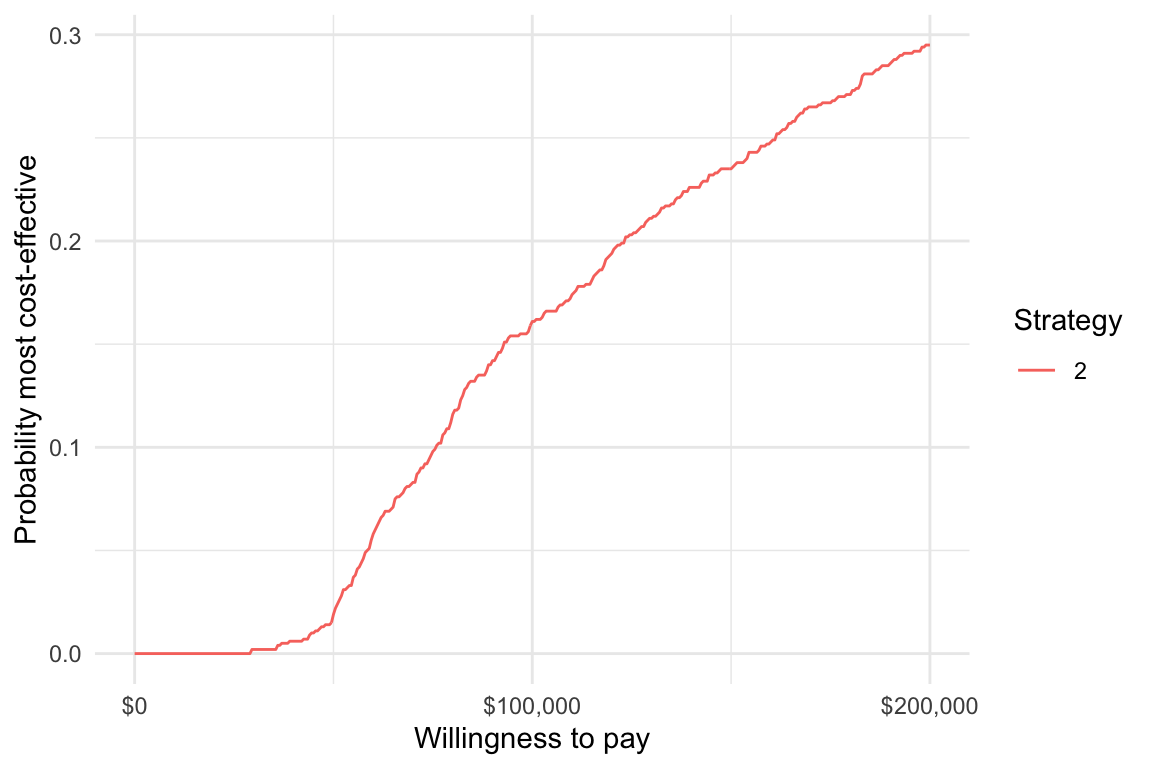
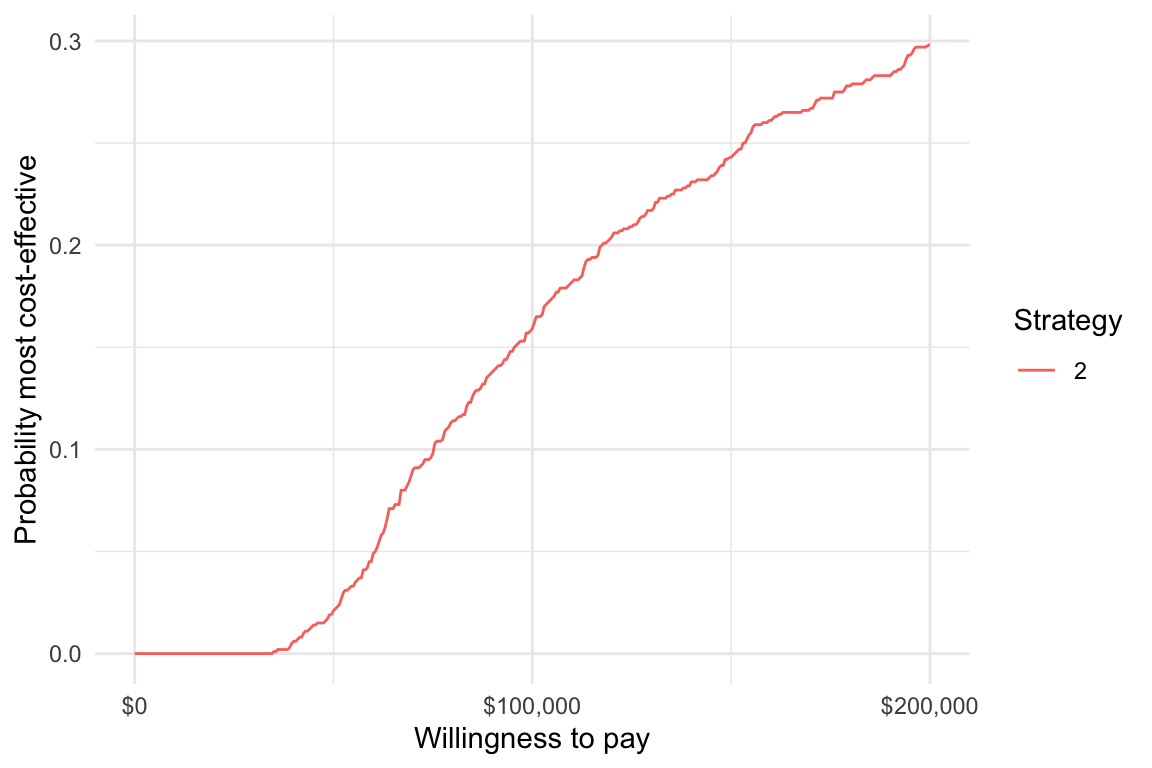
Replace icea() and icea_pw() with cea() and cea_pw() in intro vignette

diff --git a/docs/dev/articles/intro.html b/docs/dev/articles/intro.html
@@ -112,7 +112,7 @@
       <h1 data-toc-skip>Introduction to <code>hesim</code>
 </h1>
             
-            <h4 class="date">2020-09-16</h4>
+            <h4 class="date">2020-09-18</h4>
       
       <small class="dont-index">Source: <a href="https://github.com/hesim-dev/hesim/blob/master/vignettes/intro.Rmd"><code>vignettes/intro.Rmd</code></a></small>
       <div class="hidden name"><code>intro.Rmd</code></div>
@@ -204,17 +204,17 @@ Individual-level continuous time state transition model (iCTSTM)
 ## 
 ## $patients
 ##       patient_id      age female
-##    1:          1 35.89558      0
-##    2:          2 48.28975      1
-##    3:          3 53.94118      1
-##    4:          4 46.72075      1
-##    5:          5 41.43244      1
+##    1:          1 44.26849      0
+##    2:          2 50.36781      1
+##    3:          3 49.83139      1
+##    4:          4 48.30783      1
+##    5:          5 41.94228      0
 ##   ---                           
-##  996:        996 47.53105      1
-##  997:        997 50.77584      0
-##  998:        998 40.46753      1
-##  999:        999 42.26013      1
-## 1000:       1000 39.09294      1
+##  996:        996 50.03492      0
+##  997:        997 52.65689      1
+##  998:        998 42.22996      0
+##  999:        999 40.15365      1
+## 1000:       1000 38.87612      0
 ## 
 ## $states
 ##    state_id state_name
@@ -480,12 +480,12 @@ Cost model(s)
                         <span class="kw">by</span> <span class="kw">=</span> <span class="fu"><a href="https://rdrr.io/r/base/c.html">c</a></span>(<span class="st">"strategies"</span>, <span class="st">"patients"</span>, <span class="st">"transitions"</span>))
 <span class="fu"><a href="https://rdrr.io/r/utils/head.html">head</a></span>(<span class="no">transmod_data</span>)</pre></body></html></div>
 <pre><code>##    strategy_id patient_id transition_id      age female from to from_name
-## 1:           1          1             1 35.89558      0    1  2   Healthy
-## 2:           1          1             2 35.89558      0    1  3   Healthy
-## 3:           1          1             3 35.89558      0    2  1      Sick
-## 4:           1          1             4 35.89558      0    2  3      Sick
-## 5:           1          2             1 48.28975      1    1  2   Healthy
-## 6:           1          2             2 48.28975      1    1  3   Healthy
+## 1:           1          1             1 44.26849      0    1  2   Healthy
+## 2:           1          1             2 44.26849      0    1  3   Healthy
+## 3:           1          1             3 44.26849      0    2  1      Sick
+## 4:           1          1             4 44.26849      0    2  3      Sick
+## 5:           1          2             1 50.36781      1    1  2   Healthy
+## 6:           1          2             2 50.36781      1    1  3   Healthy
 ##    to_name trans
 ## 1:    Sick     1
 ## 2:    Dead     2
@@ -592,89 +592,89 @@ $sim_costs()
 <p>We illustrate with the iCTSTM. First we simulate disease progression for each patient.</p>
 <div class="sourceCode" id="cb14"><html><body><pre class="r"><span class="no">ictstm</span>$<span class="fu">sim_disease</span>()
 <span class="fu"><a href="https://rdrr.io/r/utils/head.html">head</a></span>(<span class="no">ictstm</span>$<span class="no">disprog_</span>)</pre></body></html></div>
-<pre><code>##    sample strategy_id patient_id grp_id from to final time_start time_stop
-## 1:      1           1          1      1    1  2     0   0.000000  8.301372
-## 2:      1           1          1      1    2  1     0   8.301372  8.631691
-## 3:      1           1          1      1    1  3     1   8.631691 20.233681
-## 4:      1           1          2      1    1  2     0   0.000000  3.609151
-## 5:      1           1          2      1    2  1     0   3.609151 12.894752
-## 6:      1           1          2      1    1  3     1  12.894752 16.308082</code></pre>
+<pre><code>##    sample strategy_id patient_id grp_id from to final time_start  time_stop
+## 1:      1           1          1      1    1  2     0  0.0000000  6.2243742
+## 2:      1           1          1      1    2  3     1  6.2243742 10.1577200
+## 3:      1           1          2      1    1  2     0  0.0000000  0.3749086
+## 4:      1           1          2      1    2  1     0  0.3749086  3.5313569
+## 5:      1           1          2      1    1  2     0  3.5313569  3.6525107
+## 6:      1           1          2      1    2  1     0  3.6525107  4.1585122</code></pre>
 <p>The disease trajectory can be summarized with <code>$sim_stateprobs()</code>.</p>
 <div class="sourceCode" id="cb16"><html><body><pre class="r"><span class="no">ictstm</span>$<span class="fu">sim_stateprobs</span>(<span class="kw">t</span> <span class="kw">=</span> <span class="fu"><a href="https://rdrr.io/r/base/c.html">c</a></span>(<span class="fl">0</span>:<span class="fl">10</span>))
 <span class="fu"><a href="https://rdrr.io/r/utils/head.html">head</a></span>(<span class="no">ictstm</span>$<span class="no">stateprobs_</span>)</pre></body></html></div>
 <pre><code>##    sample strategy_id grp_id state_id t  prob
 ## 1:      1           1      1        1 0 1.000
-## 2:      1           1      1        1 1 0.837
-## 3:      1           1      1        1 2 0.734
-## 4:      1           1      1        1 3 0.658
-## 5:      1           1      1        1 4 0.596
-## 6:      1           1      1        1 5 0.553</code></pre>
+## 2:      1           1      1        1 1 0.864
+## 3:      1           1      1        1 2 0.741
+## 4:      1           1      1        1 3 0.661
+## 5:      1           1      1        1 4 0.587
+## 6:      1           1      1        1 5 0.529</code></pre>
 <p>We can then compute costs and QALYs (using a discount rate of 3 percent).</p>
 <div class="sourceCode" id="cb18"><html><body><pre class="r"><span class="co"># QALYs</span>
 <span class="no">ictstm</span>$<span class="fu"><a href="../reference/sim_ev.html">sim_qalys</a></span>(<span class="kw">dr</span> <span class="kw">=</span> <span class="fl">.03</span>)
 <span class="fu"><a href="https://rdrr.io/r/utils/head.html">head</a></span>(<span class="no">ictstm</span>$<span class="no">qalys_</span>)</pre></body></html></div>
-<pre><code>##    sample strategy_id grp_id state_id   dr     qalys       lys
-## 1:      1           1      1        1 0.03 7.0336498 8.2286792
-## 2:      1           1      1        2 0.03 1.7161797 1.8123387
-## 3:      1           2      1        1 0.03 6.9692623 8.1533522
-## 4:      1           2      1        2 0.03 0.9005584 0.9510174
-## 5:      2           1      1        1 0.03 6.1601748 9.1825338
-## 6:      2           1      1        2 0.03 1.8448341 2.0326476</code></pre>
+<pre><code>##    sample strategy_id grp_id state_id   dr    qalys      lys
+## 1:      1           1      1        1 0.03 4.511986 7.654131
+## 2:      1           1      1        2 0.03 1.327581 1.557094
+## 3:      1           2      1        1 0.03 5.033307 8.538500
+## 4:      1           2      1        2 0.03 1.000137 1.173041
+## 5:      2           1      1        1 0.03 5.392822 8.198494
+## 6:      2           1      1        2 0.03 1.872053 1.929139</code></pre>
 <div class="sourceCode" id="cb20"><html><body><pre class="r"><span class="co"># Costs</span>
 <span class="no">ictstm</span>$<span class="fu"><a href="../reference/sim_ev.html">sim_costs</a></span>(<span class="kw">dr</span> <span class="kw">=</span> <span class="fl">.03</span>)
 <span class="fu"><a href="https://rdrr.io/r/utils/head.html">head</a></span>(<span class="no">ictstm</span>$<span class="no">costs_</span>)</pre></body></html></div>
 <pre><code>##    sample strategy_id grp_id state_id   dr category     costs
-## 1:      1           1      1        1 0.03    drugs 41143.396
-## 2:      1           1      1        2 0.03    drugs  9061.693
-## 3:      1           2      1        1 0.03    drugs 81533.522
-## 4:      1           2      1        2 0.03    drugs  9510.174
-## 5:      2           1      1        1 0.03    drugs 45912.669
-## 6:      2           1      1        2 0.03    drugs 10163.238</code></pre>
+## 1:      1           1      1        1 0.03    drugs 38270.655
+## 2:      1           1      1        2 0.03    drugs  7785.468
+## 3:      1           2      1        1 0.03    drugs 85385.000
+## 4:      1           2      1        2 0.03    drugs 11730.405
+## 5:      2           1      1        1 0.03    drugs 40992.471
+## 6:      2           1      1        2 0.03    drugs  9645.695</code></pre>
 </div>
 </div>
 <div id="decision-analysis" class="section level1">
 <h1 class="hasAnchor">
 <a href="#decision-analysis" class="anchor"></a>Decision analysis</h1>
-<p>Once output has been simulated with an economic model, a decision analysis can be performed. Cost-effectiveness analyses can be performed using other R packages such as <a href="https://sites.google.com/a/statistica.it/gianluca/bcea">BCEA</a> or directly with <code>hesim</code> as described in more detail <a href="icea.html">here</a>. <code>hesim</code> does not currently provide support for MCDA.</p>
+<p>Once output has been simulated with an economic model, a decision analysis can be performed. Cost-effectiveness analyses can be performed using other R packages such as <a href="https://sites.google.com/a/statistica.it/gianluca/bcea">BCEA</a> or directly with <code>hesim</code> as described in more detail <a href="cea.html">here</a>. <code>hesim</code> does not currently provide support for MCDA.</p>
 <p>To perform a CEA, simulated costs and QALYs can be summarized to create a <code>ce</code> object, which contains mean costs and QALYs for each sample from the PSA by treatment strategy.</p>
 <div class="sourceCode" id="cb22"><html><body><pre class="r"><span class="no">ce</span> <span class="kw">&lt;-</span> <span class="no">ictstm</span>$<span class="fu">summarize</span>()
 <span class="fu"><a href="https://rdrr.io/r/base/print.html">print</a></span>(<span class="no">ce</span>)</pre></body></html></div>
 <pre><code>## $costs
 ##       category   dr sample strategy_id     costs grp_id
-##    1:    drugs 0.03      1           1  50205.09      1
-##    2:    drugs 0.03      1           2  91043.70      1
-##    3:    drugs 0.03      2           1  56075.91      1
-##    4:    drugs 0.03      2           2 112456.02      1
-##    5:    drugs 0.03      3           1  48235.53      1
+##    1:    drugs 0.03      1           1  46056.12      1
+##    2:    drugs 0.03      1           2  97115.40      1
+##    3:    drugs 0.03      2           1  50638.17      1
+##    4:    drugs 0.03      2           2 106840.68      1
+##    5:    drugs 0.03      3           1  47994.89      1
 ##   ---                                                  
-## 5996:    total 0.03    998           2 118324.67      1
-## 5997:    total 0.03    999           1  61466.24      1
-## 5998:    total 0.03    999           2 117241.29      1
-## 5999:    total 0.03   1000           1  63010.07      1
-## 6000:    total 0.03   1000           2 112578.45      1
+## 5996:    total 0.03    998           2 115225.59      1
+## 5997:    total 0.03    999           1  64406.42      1
+## 5998:    total 0.03    999           2 120432.61      1
+## 5999:    total 0.03   1000           1  61070.81      1
+## 6000:    total 0.03   1000           2 100169.28      1
 ## 
 ## $qalys
 ##         dr sample strategy_id    qalys grp_id
-##    1: 0.03      1           1 8.749829      1
-##    2: 0.03      1           2 7.869821      1
-##    3: 0.03      2           1 8.005009      1
-##    4: 0.03      2           2 7.816588      1
-##    5: 0.03      3           1 4.688784      1
+##    1: 0.03      1           1 5.839567      1
+##    2: 0.03      1           2 6.033443      1
+##    3: 0.03      2           1 7.264875      1
+##    4: 0.03      2           2 7.379253      1
+##    5: 0.03      3           1 6.360733      1
 ##   ---                                        
-## 1996: 0.03    998           2 6.809477      1
-## 1997: 0.03    999           1 8.488227      1
-## 1998: 0.03    999           2 8.819337      1
-## 1999: 0.03   1000           1 9.402315      1
-## 2000: 0.03   1000           2 9.232314      1
+## 1996: 0.03    998           2 7.654312      1
+## 1997: 0.03    999           1 3.443313      1
+## 1998: 0.03    999           2 3.353327      1
+## 1999: 0.03   1000           1 8.216184      1
+## 2000: 0.03   1000           2 7.372686      1
 ## 
 ## attr(,"class")
 ## [1] "ce"</code></pre>
-<p>The functions <code><a href="../reference/icea.html">icea()</a></code> and <code>icea_pw</code>, which perform individualized cost-effectiveness analysis and incremental individualized cost-effectiveness analysis, respectively, can be used.</p>
-<div class="sourceCode" id="cb24"><html><body><pre class="r"><span class="no">icea</span> <span class="kw">&lt;-</span> <span class="fu"><a href="../reference/icea.html">icea</a></span>(<span class="no">ce</span>, <span class="kw">dr_qalys</span> <span class="kw">=</span> <span class="fl">.03</span>, <span class="kw">dr_costs</span> <span class="kw">=</span> <span class="fl">.03</span>)
-<span class="no">icea_pw</span> <span class="kw">&lt;-</span> <span class="fu"><a href="../reference/icea.html">icea_pw</a></span>(<span class="no">ce</span>, <span class="kw">dr_qalys</span> <span class="kw">=</span> <span class="fl">.03</span>, <span class="kw">dr_costs</span> <span class="kw">=</span> <span class="fl">.03</span>, <span class="kw">comparator</span> <span class="kw">=</span> <span class="fl">1</span>)</pre></body></html></div>
+<p>The functions <code><a href="../reference/cea.html">cea()</a></code> and <code>cea_pw</code>, which perform individualized cost-effectiveness analysis and incremental individualized cost-effectiveness analysis, respectively, can be used.</p>
+<div class="sourceCode" id="cb24"><html><body><pre class="r"><span class="no">cea</span> <span class="kw">&lt;-</span> <span class="fu"><a href="../reference/cea.html">cea</a></span>(<span class="no">ce</span>, <span class="kw">dr_qalys</span> <span class="kw">=</span> <span class="fl">.03</span>, <span class="kw">dr_costs</span> <span class="kw">=</span> <span class="fl">.03</span>)
+<span class="no">cea_pw</span> <span class="kw">&lt;-</span> <span class="fu"><a href="../reference/cea.html">cea_pw</a></span>(<span class="no">ce</span>, <span class="kw">dr_qalys</span> <span class="kw">=</span> <span class="fl">.03</span>, <span class="kw">dr_costs</span> <span class="kw">=</span> <span class="fl">.03</span>, <span class="kw">comparator</span> <span class="kw">=</span> <span class="fl">1</span>)</pre></body></html></div>
 <p>For instance, we might want to plot a cost-effectiveness acceptability curve (CEAC) displaying the probability that treatment strategy 2 is more cost-effective than treatment strategy 1 at a given willingness to pay for a QALY.</p>
 <div class="sourceCode" id="cb25"><html><body><pre class="r"><span class="fu"><a href="https://rdrr.io/r/base/library.html">library</a></span>(<span class="st">"ggplot2"</span>)
-<span class="kw pkg">ggplot2</span><span class="kw ns">::</span><span class="fu"><a href="https://ggplot2.tidyverse.org/reference/ggplot.html">ggplot</a></span>(<span class="no">icea_pw</span>$<span class="no">ceac</span>, <span class="fu"><a href="https://ggplot2.tidyverse.org/reference/aes.html">aes</a></span>(<span class="kw">x</span> <span class="kw">=</span> <span class="no">k</span>, <span class="kw">y</span> <span class="kw">=</span> <span class="no">prob</span>, <span class="kw">col</span> <span class="kw">=</span> <span class="fu"><a href="https://rdrr.io/r/base/factor.html">factor</a></span>(<span class="no">strategy_id</span>))) +
+<span class="fu"><a href="https://ggplot2.tidyverse.org/reference/ggplot.html">ggplot</a></span>(<span class="no">cea_pw</span>$<span class="no">ceac</span>, <span class="fu"><a href="https://ggplot2.tidyverse.org/reference/aes.html">aes</a></span>(<span class="kw">x</span> <span class="kw">=</span> <span class="no">k</span>, <span class="kw">y</span> <span class="kw">=</span> <span class="no">prob</span>, <span class="kw">col</span> <span class="kw">=</span> <span class="fu"><a href="https://rdrr.io/r/base/factor.html">factor</a></span>(<span class="no">strategy_id</span>))) +
   <span class="fu"><a href="https://ggplot2.tidyverse.org/reference/geom_path.html">geom_line</a></span>() + <span class="fu"><a href="https://ggplot2.tidyverse.org/reference/labs.html">xlab</a></span>(<span class="st">"Willingness to pay"</span>) +
   <span class="fu"><a href="https://ggplot2.tidyverse.org/reference/labs.html">ylab</a></span>(<span class="st">"Probability most cost-effective"</span>) +
   <span class="fu"><a href="https://ggplot2.tidyverse.org/reference/scale_continuous.html">scale_x_continuous</a></span>(<span class="kw">breaks</span> <span class="kw">=</span> <span class="fu"><a href="https://rdrr.io/r/base/seq.html">seq</a></span>(<span class="fl">0</span>, <span class="fl">200000</span>, <span class="fl">100000</span>), <span class="kw">label</span> <span class="kw">=</span> <span class="kw pkg">scales</span><span class="kw ns">::</span><span class="no"><a href="https://scales.r-lib.org//reference/label_dollar.html">dollar</a></span>) +
